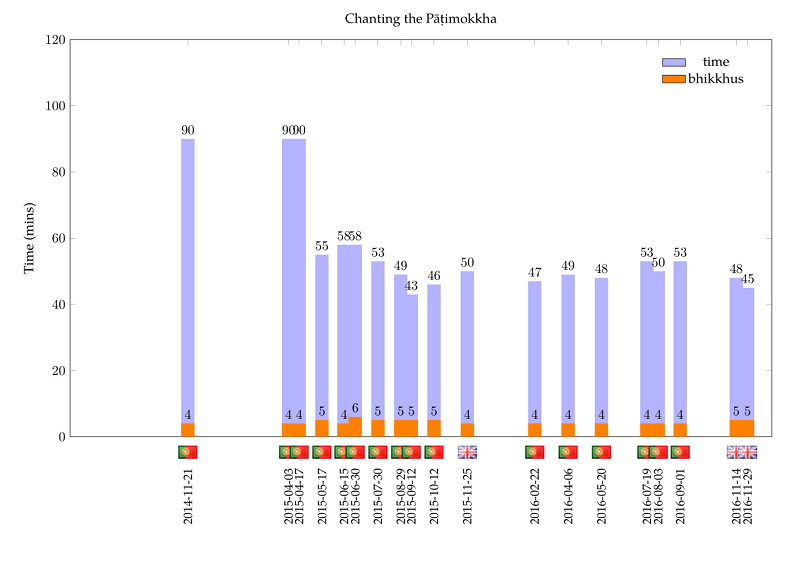
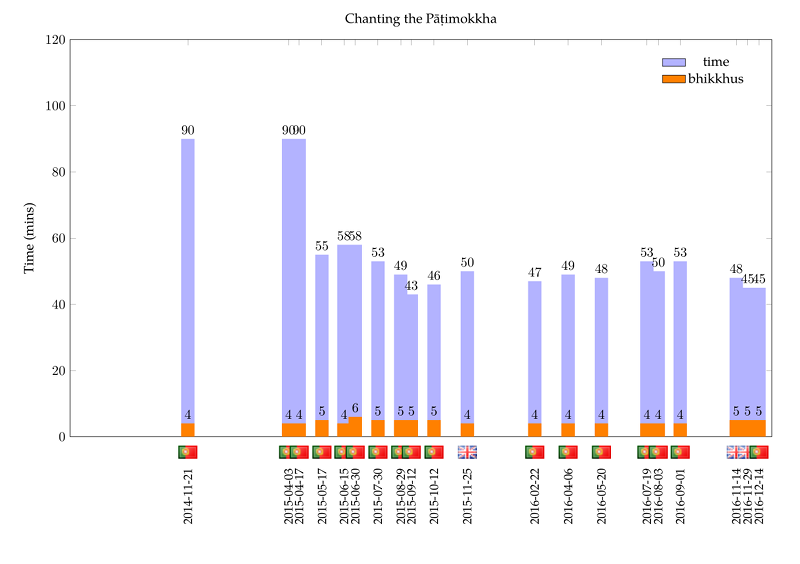
upd

Changed region(s): [[0.9375, 0.4823, 0.9688, 0.8138], [0.9375, 0.844, 0.9688, 0.9344]]

diff --git a/src/patimokkha-chanting-chart.tex b/src/patimokkha-chanting-chart.tex
@@ -102,6 +102,7 @@
   \node [anchor=south, yshift=-20pt] at (axis cs:2016-09-01,0) {\includegraphics[width=5mm]{pt}};
   \node [anchor=south, yshift=-20pt] at (axis cs:2016-11-14,0) {\includegraphics[width=5mm]{gb}};
   \node [anchor=south, yshift=-20pt] at (axis cs:2016-11-29,0) {\includegraphics[width=5mm]{gb}};
+  \node [anchor=south, yshift=-20pt] at (axis cs:2016-12-14,0) {\includegraphics[width=5mm]{pt}};
 
 \end{axis}
 \end{tikzpicture}
